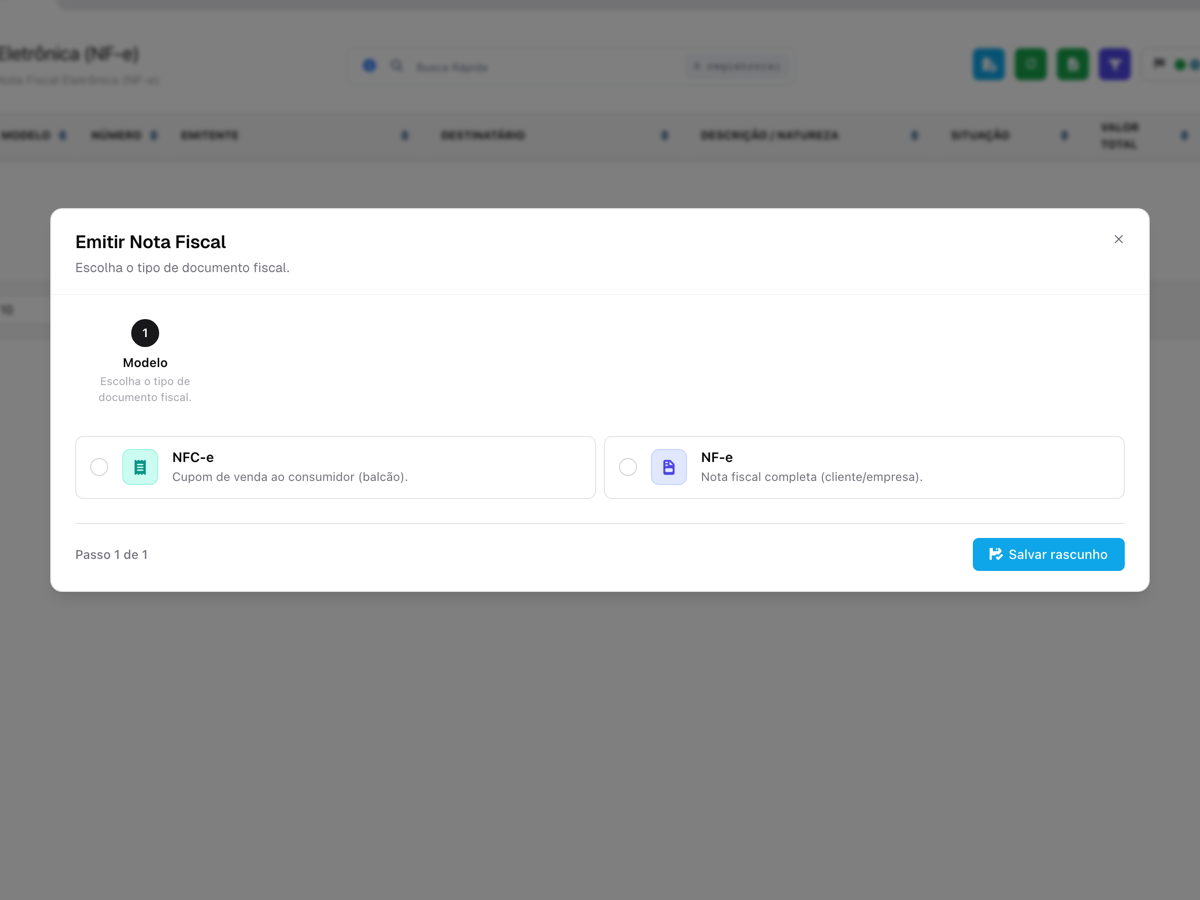
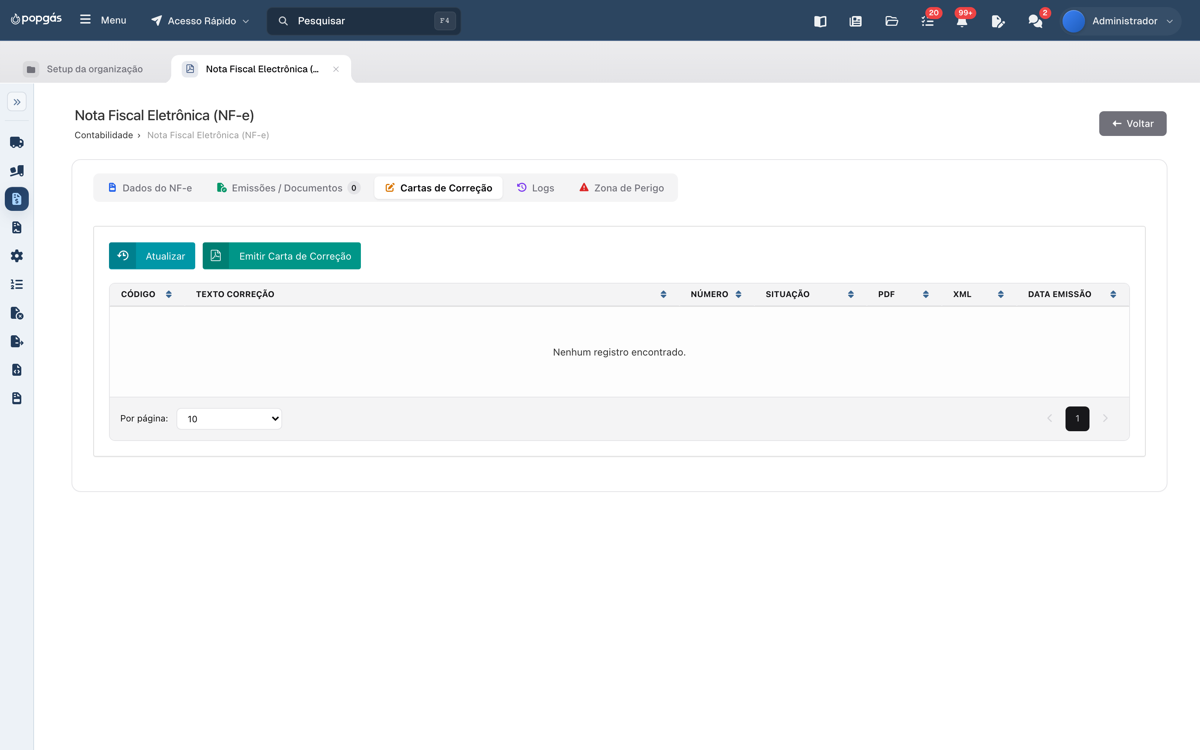
fix(site): módulo Fiscal com a ficha de uma NF-e autorizada no lugar do diálogo de criação

diff --git a/src/content/modules/fiscal.ts b/src/content/modules/fiscal.ts
@@ -9,16 +9,16 @@ export const fiscalContent: ModuleContent = {
     subtitle:
       'NF-e, NFC-e, NFS-e, CT-e e MDF-e emitidos de dentro do sistema, homologados junto à SEFAZ, com impostos calculados automaticamente e o SPED pronto para o contador.',
   },
-  screenshotPath: '/screenshots/05-nfe-emissao-modal.png',
-  screenshotAlt: 'Tela de emissão de nota fiscal do PopGás Sistema',
+  screenshotPath: '/screenshots/05-nfe-ficha.png',
+  screenshotAlt: 'Ficha de uma NF-e autorizada no PopGás Sistema',
   sections: [
     {
       id: 'emissao',
       title: 'Emissão de documentos',
       intro:
         'Todos os documentos fiscais que uma revenda de gás precisa, emitidos a partir do pedido, da compra ou do zero.',
-      screenshotPath: '/screenshots/05-nfe-emissao-modal.png',
-      screenshotAlt: 'Assistente de emissão de nota fiscal com escolha entre NFC-e e NF-e',
+      screenshotPath: '/screenshots/05-nfe-ficha.png',
+      screenshotAlt: 'NF-e autorizada com dados gerais, destinatário e itens',
       features: [
         {
           id: 'nfe-e-nfce',
